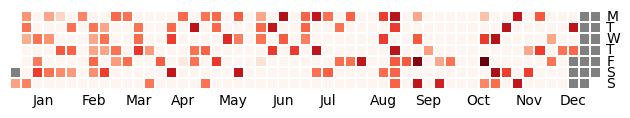
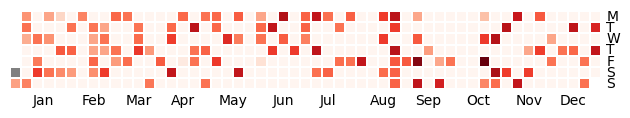
update files (as of 2023/1/4)

Changed region(s): [[0.9048, 0.1017, 0.9651, 0.7627]]

diff --git a/README.md b/README.md
@@ -4,19 +4,19 @@
 
 ## 使い方
 
-- 筋トレ用（9月から10月までを作成）
+- 筋トレ用
 
 ```
-python src/main.py --data ./data/power-training.csv --single --output power-training.png
+python src/main.py --data ./data/power-training.csv --single --output output/power-training.png
 ```
 
 ![power-training.png](output/power-training.png)
 
 
-- ジョギング用（1月から10月までを作成）
+- ジョギング用
 
 ```
-python src/main.py --data ./data/jogging.csv --output jogging.png
+python src/main.py --data ./data/jogging.csv --output output/jogging.png
 ```
 
 ![jogging.png](output/jogging.png)
